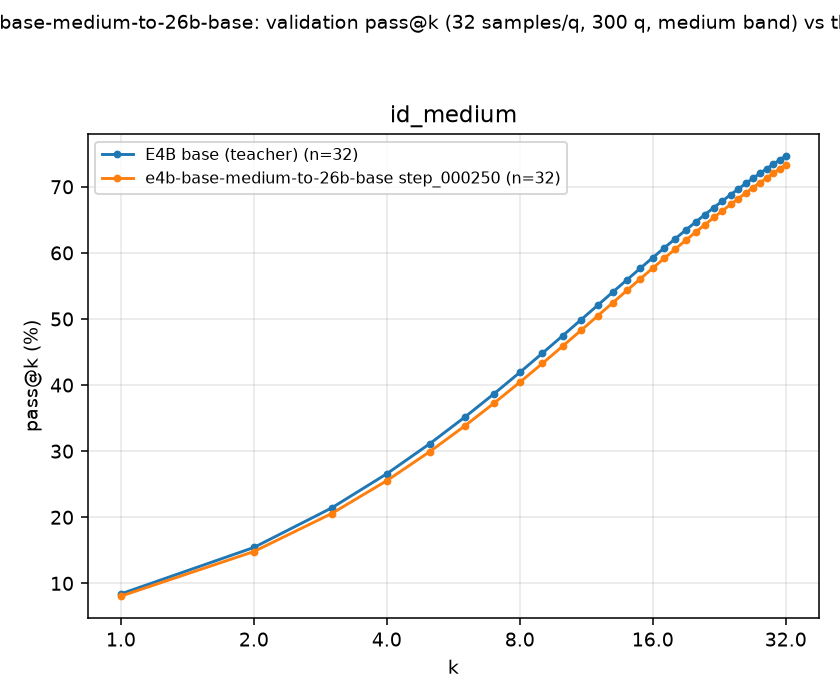
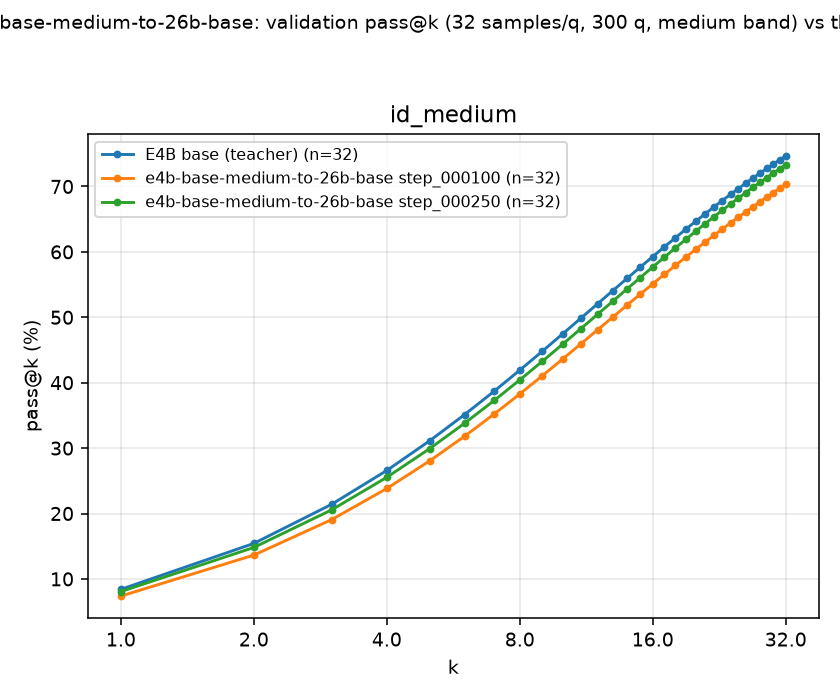
E4B-base control: 12B steps 300/400 + 26B step 100 pass@k; figures

diff --git a/rl-distill-scripts/DISTILLATION_EXPERIMENTS.md b/rl-distill-scripts/DISTILLATION_EXPERIMENTS.md
@@ -630,6 +630,9 @@ launched yet.
 | 12B ← E4B-base medium, step 100 | 7.5 | 13.9 | 24.1 | 38.3 | 55.0 | 71.7 | 7.5 | 19.7 |
 | 12B ← E4B-base medium, step 150 | 6.7 | 12.4 | 21.9 | 35.7 | 52.8 | 70.0 | 6.7 | 15.3 |
 | 12B ← E4B-base medium, step 200 | 7.2 | 13.2 | 23.0 | 36.9 | 53.6 | 70.3 | 7.2 | 21.0 |
+| 12B ← E4B-base medium, step 300 | 7.3 | 13.3 | 23.1 | 36.7 | 53.1 | 68.7 | 7.3 | 17.0 |
+| 12B ← E4B-base medium, step 400 | 7.4 | 13.6 | 23.7 | 38.1 | 55.3 | 71.3 | 7.3 | 19.0 |
+| 26B-A4B ← E4B-base medium, step 100 | 7.4 | 13.6 | 23.8 | 38.3 | 55.1 | 70.3 | 7.4 | 16.7 |
 | 26B-A4B ← E4B-base medium, step 250 (earlier attempt) | 8.1 | 14.8 | 25.5 | 40.4 | 57.7 | 73.3 | 8.1 | 18.3 |
 
 (Untrained bases on the same band, ×16: 12B mean 14.1 / pass@16 72.0, 26B-A4B mean 23.8 / pass@16 86.3 — §8. The distilled student has moved onto the
